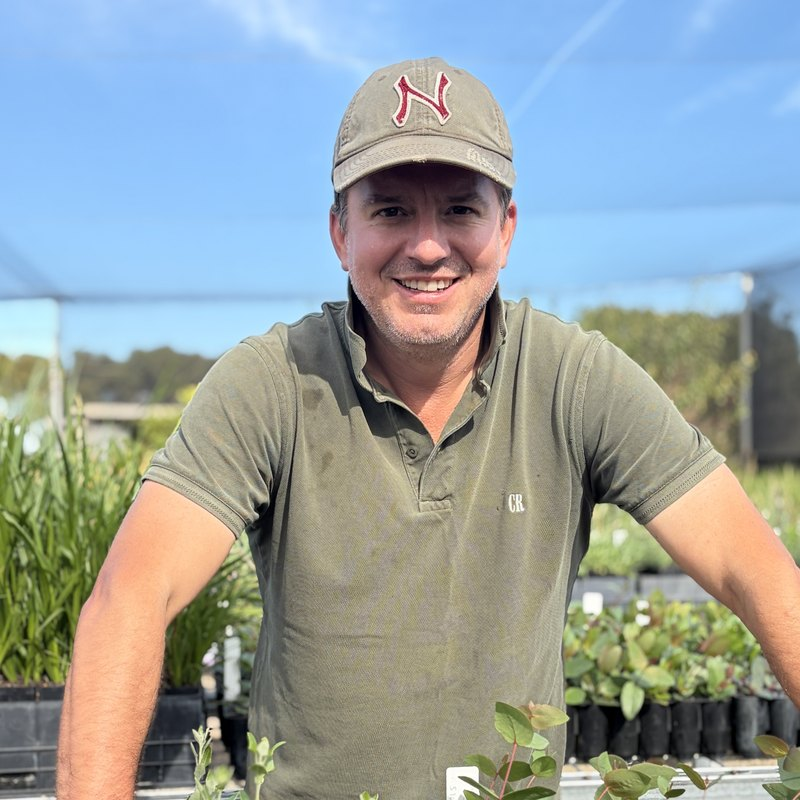
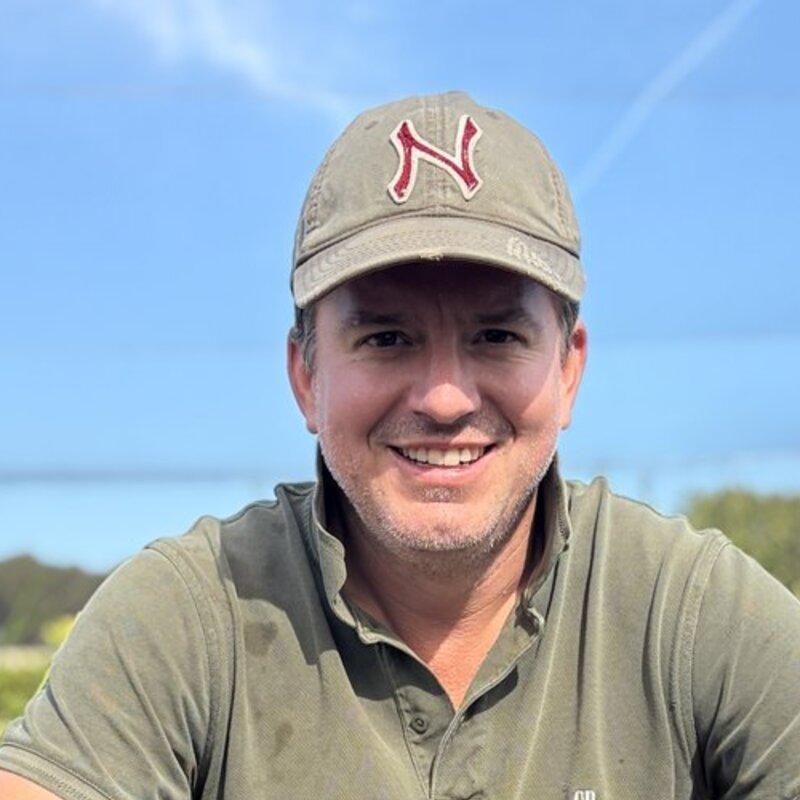
Center crew headshot crops

diff --git a/.tickets/the-5s12.md b/.tickets/the-5s12.md
@@ -1,0 +1,20 @@
+---
+id: the-5s12
+status: closed
+deps: []
+links: []
+created: 2026-06-24T04:08:28Z
+type: task
+priority: 1
+assignee: Jake Brown
+---
+# Center wider crew headshot eyes
+
+Adjust the homepage wider crew headshots shown in Jake's screenshot so each person's eyes sit centered in the circular crop: Fleur, James, Oliver, and Maddie.
+
+
+## Notes
+
+**2026-06-24T04:13:21Z**
+
+Recropped Fleur, James, Oliver, and Maddie team images so their eyes/faces sit nearer the center of the circular homepage crop. npm run build passed.
